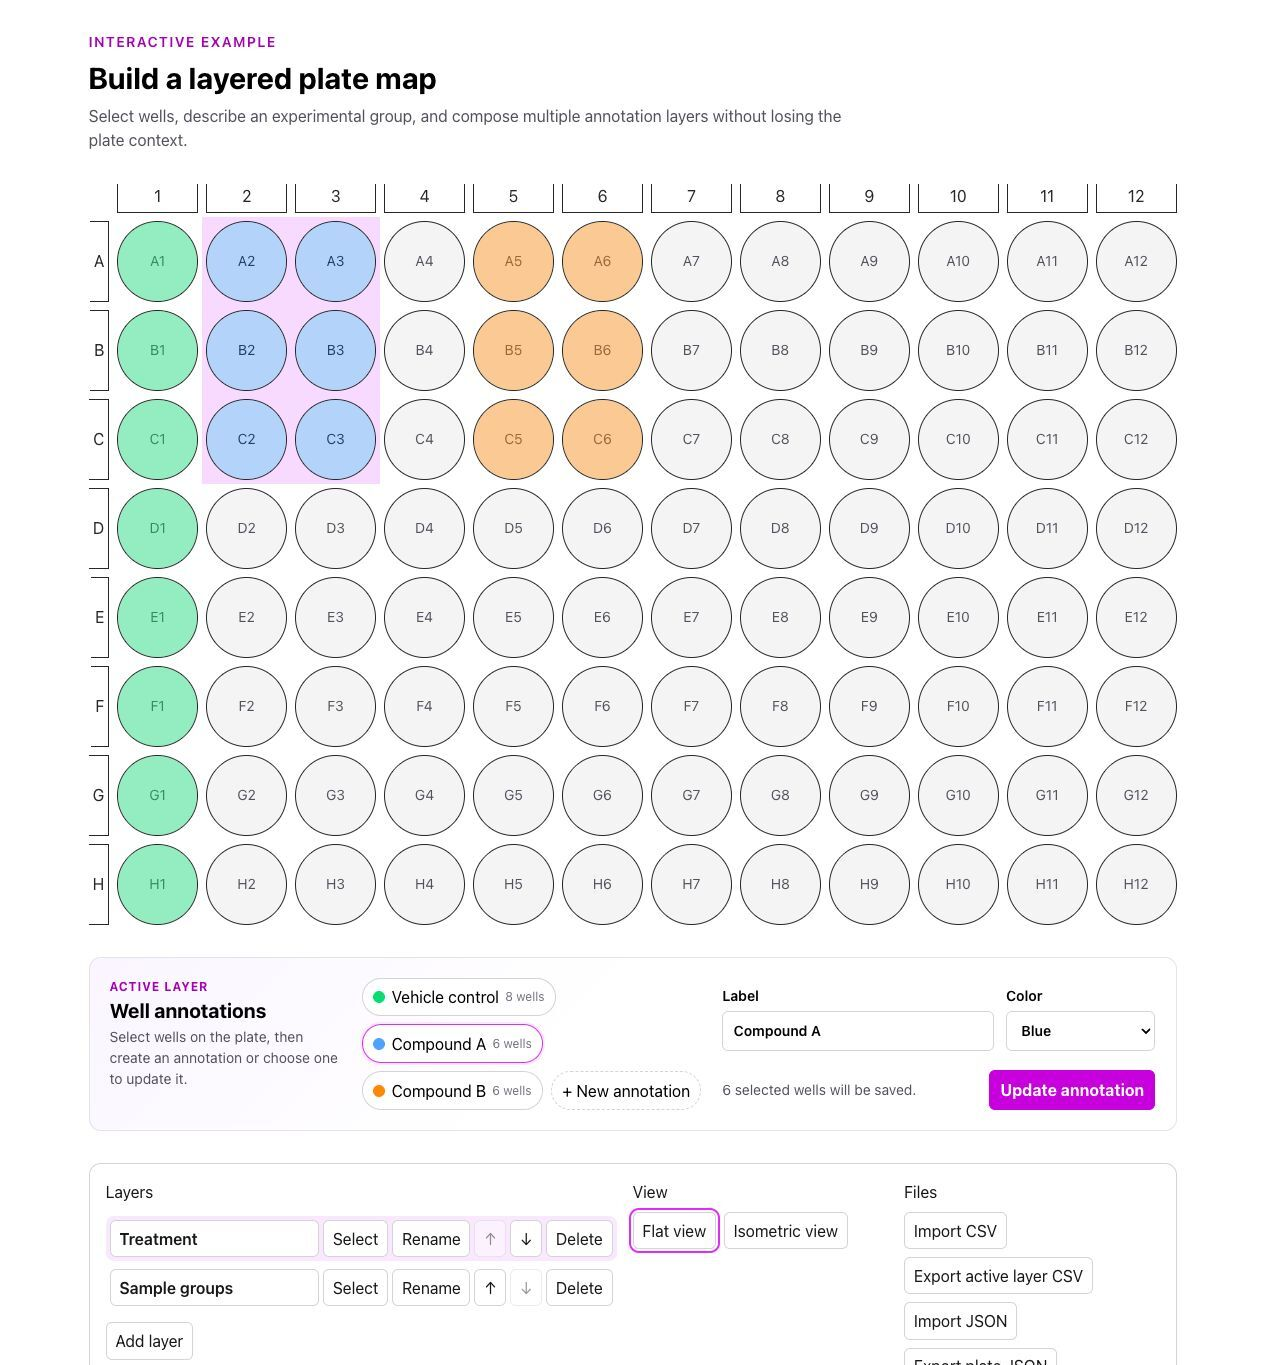
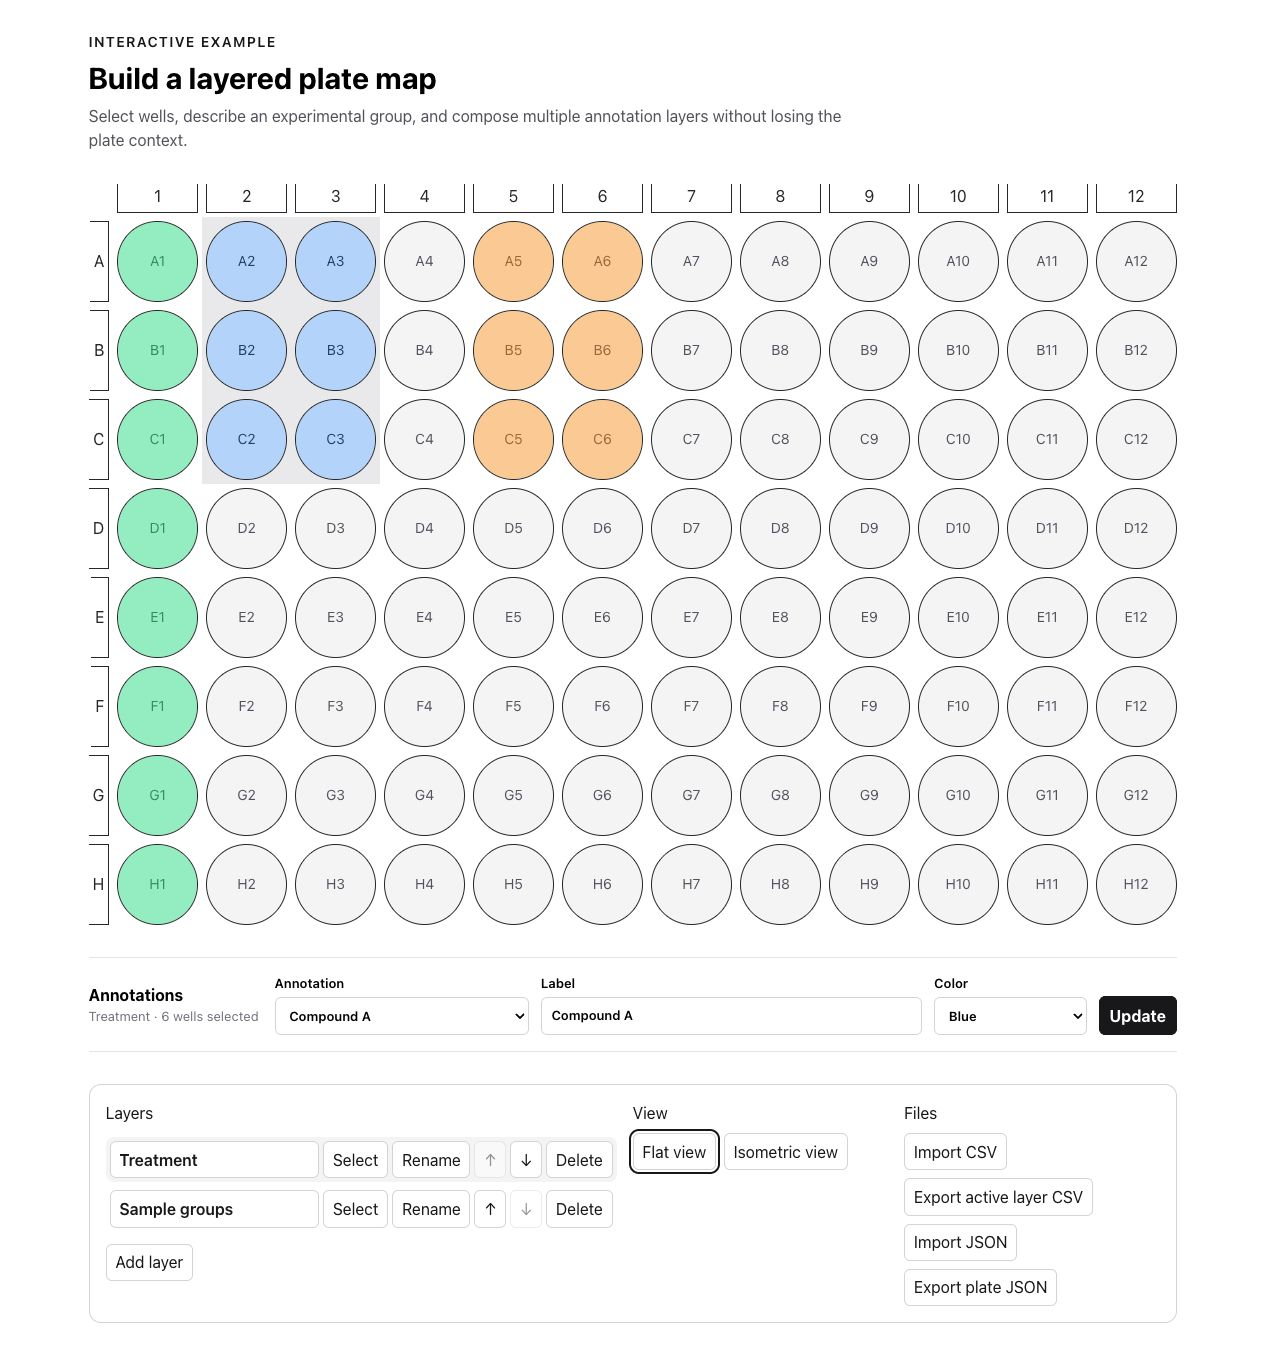
Simplify annotation controls

diff --git a/src/WellAnnotationEditor.tsx b/src/WellAnnotationEditor.tsx
@@ -79,54 +79,35 @@ export const WellAnnotationEditor = ({
     plateActions.setActiveWellAnnotation(annotationId ?? null);
   };
 
-  const startNewAnnotation = () => {
-    plateActions.setActiveWellAnnotation(null);
-  };
-
   return (
     <section
       className="annotation-editor"
       aria-labelledby="annotation-editor-title"
     >
-      <div>
-        <p className="annotation-editor-eyebrow">Active layer</p>
-        <h2 id="annotation-editor-title">Well annotations</h2>
-        <p className="annotation-editor-help">
-          Select wells on the plate, then create an annotation or choose one to
-          update it.
+      <div className="annotation-editor-heading">
+        <h2 id="annotation-editor-title">Annotations</h2>
+        <p aria-live="polite">
+          {activeLayer.name} · {selectedWells.length} wells selected
         </p>
       </div>
 
-      <div className="annotation-list" aria-label="Annotations on active layer">
-        {activeLayer.annotations.map((annotation) => (
-          <button
-            key={annotation.id}
-            type="button"
-            aria-pressed={annotation.id === activeAnnotation?.id}
-            className="annotation-chip"
-            onClick={() => plateActions.setActiveWellAnnotation(annotation.id)}
-          >
-            <span
-              className={`annotation-chip-swatch platemap-annotation-${annotation.annotationStyle.color}`}
-              aria-hidden="true"
-            />
-            <span>{annotation.label}</span>
-            <span className="annotation-chip-count">
-              {annotation.wells.length} wells
-            </span>
-          </button>
-        ))}
-        <button
-          type="button"
-          className="annotation-chip annotation-chip-new"
-          aria-pressed={!activeAnnotation}
-          onClick={startNewAnnotation}
-        >
-          + New annotation
-        </button>
-      </div>
-
       <form className="annotation-form" onSubmit={saveAnnotation}>
+        <label>
+          <span>Annotation</span>
+          <select
+            value={activeAnnotation?.id ?? ""}
+            onChange={(event) =>
+              plateActions.setActiveWellAnnotation(event.target.value || null)
+            }
+          >
+            <option value="">New annotation</option>
+            {activeLayer.annotations.map((annotation) => (
+              <option key={annotation.id} value={annotation.id}>
+                {annotation.label}
+              </option>
+            ))}
+          </select>
+        </label>
         <label>
           <span>Label</span>
           <input
@@ -150,23 +131,14 @@ export const WellAnnotationEditor = ({
             ))}
           </select>
         </label>
-        <div className="annotation-form-action">
-          <p aria-live="polite">
-            {selectedWells.length
-              ? `${selectedWells.length} selected wells will be saved.`
-              : activeAnnotation
-                ? `${activeAnnotation.wells.length} existing wells will be kept.`
-                : "Select at least one well to create an annotation."}
-          </p>
-          <button
-            type="submit"
-            disabled={
-              !label.trim() || (!activeAnnotation && !selectedWells.length)
-            }
-          >
-            {activeAnnotation ? "Update annotation" : "Create annotation"}
-          </button>
-        </div>
+        <button
+          type="submit"
+          disabled={
+            !label.trim() || (!activeAnnotation && !selectedWells.length)
+          }
+        >
+          {activeAnnotation ? "Update" : "Create"}
+        </button>
       </form>
     </section>
   );

diff --git a/src/demo.css b/src/demo.css
@@ -1,126 +1,79 @@
 .annotation-editor {
-  background: linear-gradient(135deg, #faf5ff, #fff 45%);
-  border: 1px solid var(--color-zinc-200);
-  border-radius: 0.75rem;
+  align-items: end;
+  border-block: 1px solid var(--color-zinc-200);
   display: grid;
-  gap: 1.25rem;
-  grid-template-columns: minmax(13rem, 0.75fr) minmax(18rem, 1.1fr) minmax(
-      22rem,
-      1.4fr
-    );
-  padding: 1.25rem;
+  gap: 1rem;
+  grid-template-columns: max-content 1fr;
+  padding-block: 1rem;
+}
+
+.annotation-editor-heading {
+  align-self: center;
 }
 
 .annotation-editor h2 {
-  font-size: 1.25rem;
+  font-size: 1rem;
   font-weight: 700;
 }
 
-.annotation-editor-eyebrow {
-  color: var(--color-fuchsia-700);
-  font-size: 0.75rem;
-  font-weight: 700;
-  letter-spacing: 0.08em;
-  text-transform: uppercase;
-}
-
-.annotation-editor-help,
-.annotation-form-action p {
-  color: var(--color-zinc-600);
-  font-size: 0.875rem;
-}
-
-.annotation-list {
-  align-content: start;
-  display: flex;
-  flex-wrap: wrap;
-  gap: 0.5rem;
-}
-
-.annotation-chip {
-  align-items: center;
-  background: #fff;
-  border: 1px solid var(--color-zinc-300);
-  border-radius: 999px;
-  display: flex;
-  gap: 0.4rem;
-  padding: 0.4rem 0.65rem;
-}
-
-.annotation-chip[aria-pressed="true"] {
-  border-color: var(--color-fuchsia-500);
-  box-shadow: 0 0 0 2px var(--color-fuchsia-100);
-}
-
-.annotation-chip-swatch {
-  border-radius: 999px;
-  height: 0.75rem;
-  width: 0.75rem;
-}
-
-.annotation-chip-count {
+.annotation-editor-heading p {
   color: var(--color-zinc-500);
-  font-size: 0.75rem;
-}
-
-.annotation-chip-new {
-  border-style: dashed;
+  font-size: 0.8125rem;
 }
 
 .annotation-form {
   align-items: end;
   display: grid;
   gap: 0.75rem;
-  grid-template-columns: minmax(10rem, 1fr) minmax(7rem, 0.55fr);
+  grid-template-columns: minmax(10rem, 1fr) minmax(12rem, 1.5fr) minmax(
+      7rem,
+      0.6fr
+    ) max-content;
 }
 
 .annotation-form label {
   display: grid;
-  font-size: 0.875rem;
+  font-size: 0.8125rem;
   font-weight: 600;
-  gap: 0.3rem;
+  gap: 0.25rem;
 }
 
 .annotation-form input,
 .annotation-form select,
 .annotation-form button {
-  background: #fff;
   border: 1px solid var(--color-zinc-300);
   border-radius: 0.375rem;
-  min-height: 2.5rem;
-  padding: 0.45rem 0.65rem;
+  min-height: 2.375rem;
+  padding: 0.4rem 0.6rem;
+}
+
+.annotation-form input,
+.annotation-form select {
+  background: #fff;
 }
 
 .annotation-form input:focus-visible,
 .annotation-form select:focus-visible,
-.annotation-form button:focus-visible,
-.annotation-chip:focus-visible {
-  outline: 2px solid var(--color-fuchsia-500);
+.annotation-form button:focus-visible {
+  outline: 2px solid var(--color-zinc-900);
   outline-offset: 2px;
 }
 
-.annotation-form-action {
-  align-items: center;
-  display: flex;
-  gap: 0.75rem;
-  grid-column: 1 / -1;
-  justify-content: space-between;
-}
-
 .annotation-form button {
-  background: var(--color-fuchsia-600);
-  border-color: var(--color-fuchsia-600);
+  background: var(--color-zinc-900);
+  border-color: var(--color-zinc-900);
   color: #fff;
   font-weight: 700;
 }
 
 .annotation-form button:disabled {
   cursor: not-allowed;
-  opacity: 0.45;
+  opacity: 0.4;
 }
 
 @media (max-width: 900px) {
-  .annotation-editor {
+  .annotation-editor,
+  .annotation-form {
     grid-template-columns: 1fr;
   }
 }

diff --git a/src/index.css b/src/index.css
@@ -8,25 +8,25 @@
   --color-well-background: var(--color-zinc-100);
   --color-well-foreground: var(--color-zinc-600);
 
-  --color-well-selected: var(--color-fuchsia-200);
+  --color-well-selected: var(--color-zinc-200);
   --color-well-excluded: var(--color-zinc-300);
-  --color-well-hovered: var(--color-fuchsia-300);
+  --color-well-hovered: var(--color-zinc-300);
 
   --color-header-border: var(--color-zinc-800);
   --color-header-text: var(--color-zinc-800);
 
-  --color-header-hover-bg: var(--color-fuchsia-200);
+  --color-header-hover-bg: var(--color-zinc-200);
   --color-header-hover-text: var(--color-zinc-800);
 
-  --color-selection-box: var(--color-fuchsia-200);
-  --color-selection-border: var(--color-fuchsia-500);
+  --color-selection-box: var(--color-zinc-200);
+  --color-selection-border: var(--color-zinc-900);
 
   --color-control-background: var(--color-white);
   --color-control-border: var(--color-zinc-300);
   --color-control-text: var(--color-zinc-900);
-  --color-control-active: var(--color-fuchsia-100);
+  --color-control-active: var(--color-zinc-100);
   --color-control-destructive: var(--color-red-700);
-  --color-control-focus: var(--color-fuchsia-500);
+  --color-control-focus: var(--color-zinc-900);
 }
 
 :root {
@@ -47,7 +47,7 @@
   --platemap-control-background: var(--color-zinc-900);
   --platemap-control-border: var(--color-zinc-700);
   --platemap-control-text: var(--color-zinc-100);
-  --platemap-control-active: var(--color-fuchsia-950);
+  --platemap-control-active: var(--color-zinc-800);
   --platemap-overflow-background: #000;
   --platemap-overflow-text: #fafafa;
 }

diff --git a/src/main.tsx b/src/main.tsx
@@ -79,7 +79,7 @@ const App = () => {
   return (
     <main className="mx-auto max-w-6xl space-y-8 p-8">
       <header className="space-y-2">
-        <p className="text-sm font-semibold uppercase tracking-widest text-fuchsia-700">
+        <p className="text-sm font-semibold uppercase tracking-widest text-zinc-900">
           Interactive example
         </p>
         <h1 className="text-3xl font-bold">Build a layered plate map</h1>
